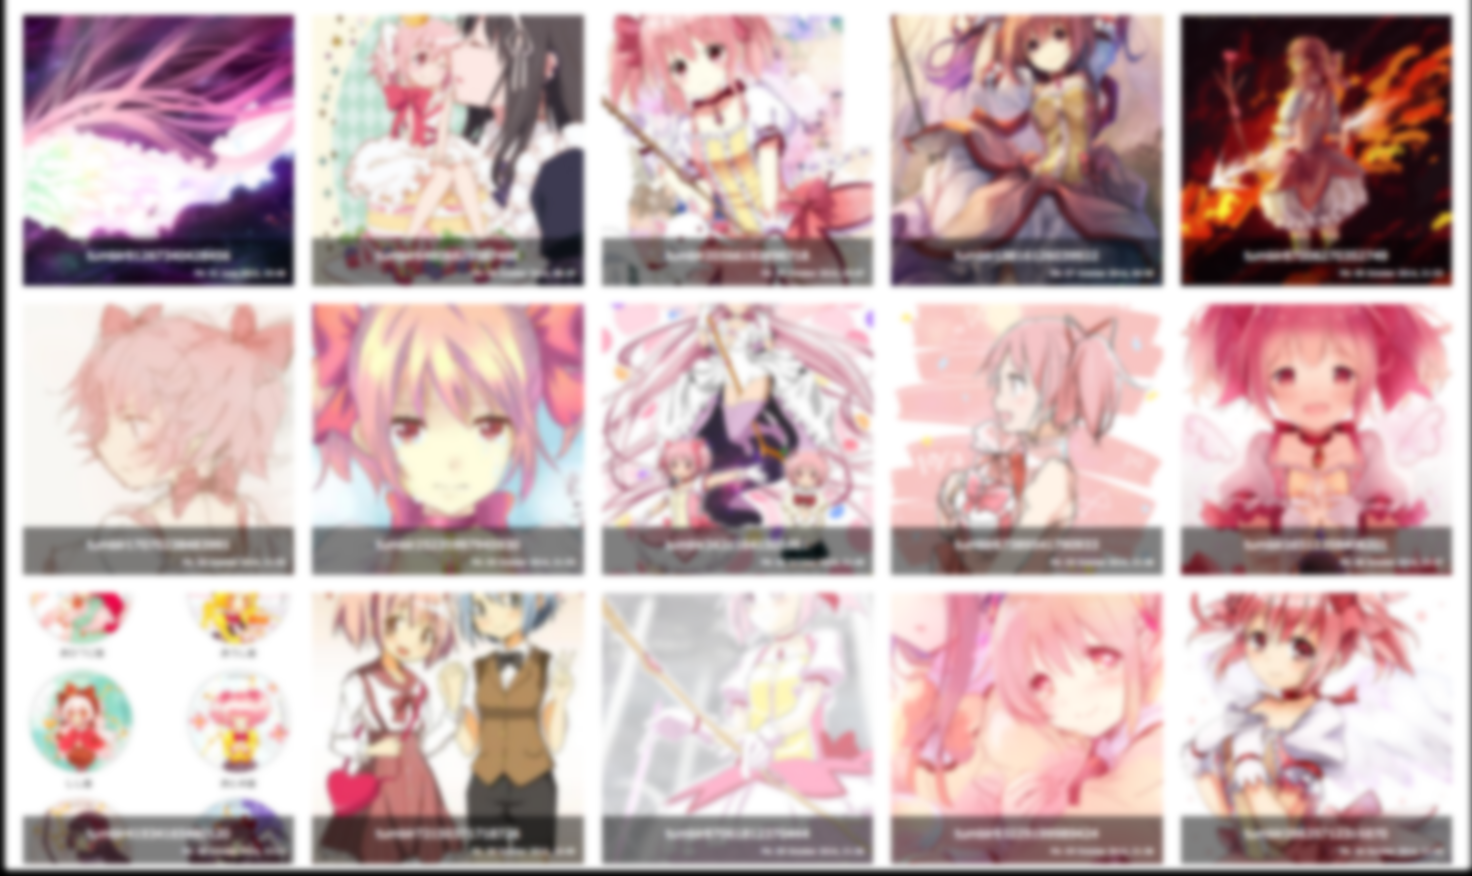
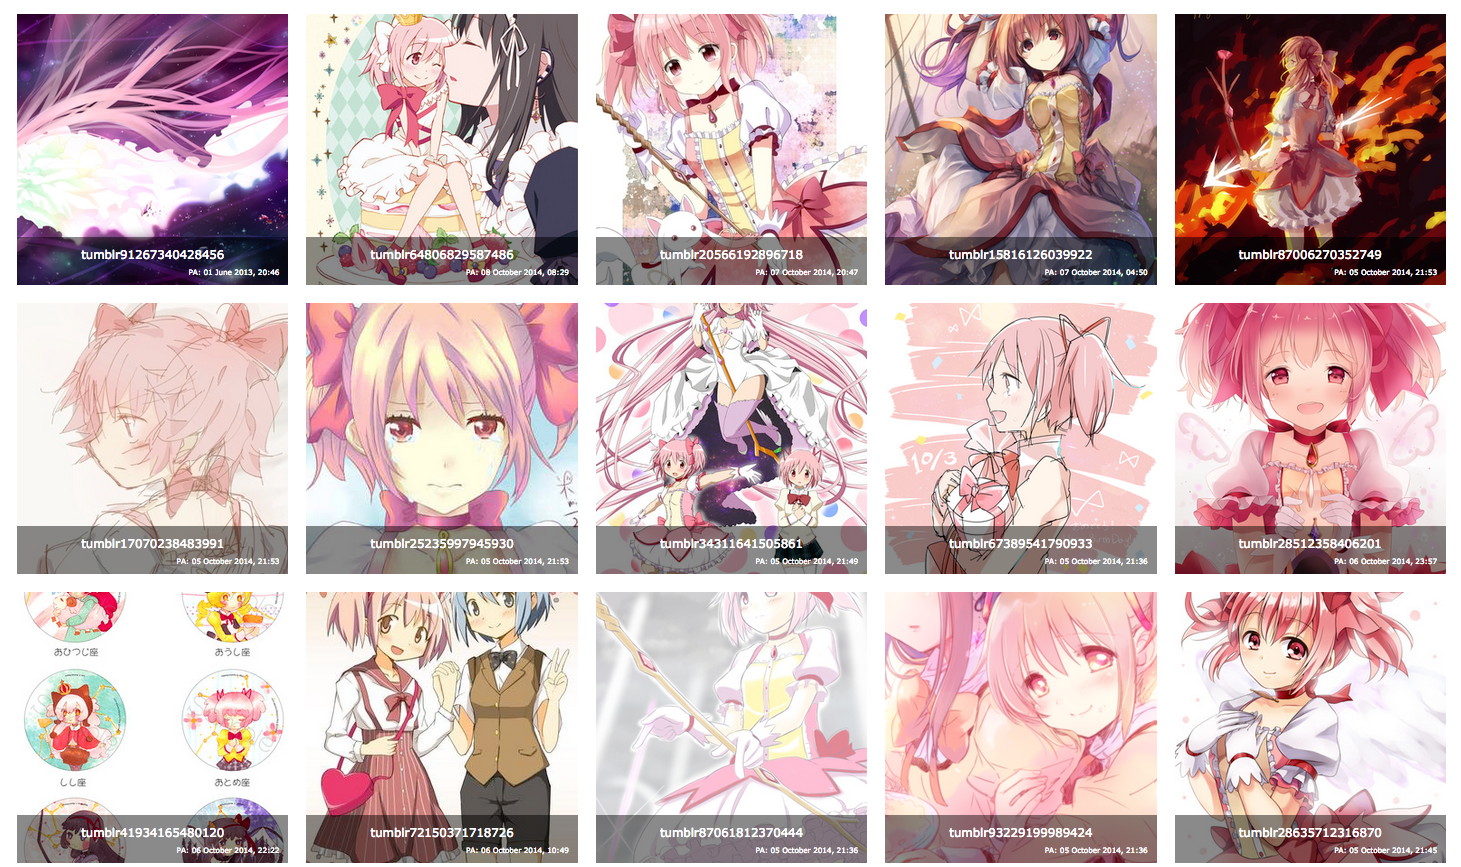
#270 Use static background

diff --git a/app/assets/stylesheets/welcome.css.scss b/app/assets/stylesheets/welcome.css.scss
@@ -56,7 +56,7 @@
   }
   &:hover {
     color: #000;
-    background-color: #E4F5F5;
+    //background-color: #E4F5F5;
     text-decoration: underline;
   }
 }
@@ -73,7 +73,7 @@
 .warning a {
   &:hover {
     color: #000;
-    background-color: #E4F5F5;
+    //background-color: #E4F5F5;
     text-decoration: underline;
   }
 }
@@ -85,7 +85,7 @@
 }
 .top_background {
   background-size: contain;
-  //background-image:url('http://666a658c624a3c03a6b2-25cda059d975d2f318c03e90bcf17c40.r92.cf1.rackcdn.com/unsplash_527bf56961712_1.JPG');
+  background-image:url('background.png');
   display: block;
   //width: 1200px;
   height: 800px;
@@ -96,10 +96,10 @@
   z-index: -1;
   margin: -5px -10px -10px -5px;
 
-  -webkit-filter: blur(5px);
+  -webkit-filter: blur(3px);
   -moz-filter: blur(5px);
   -o-filter: blur(5px);
   -ms-filter: blur(5px);
-  filter: blur(5px);
+  filter: blur(3px);
 }
 

diff --git a/app/assets/stylesheets/scaffolds.css.scss b/app/assets/stylesheets/scaffolds.css.scss
@@ -26,7 +26,7 @@ a {
   }
   &:hover {
     color: #000;
-    background-color: #fff;
+    //background-color: #fff;
     text-decoration: underline;
   }
 }
